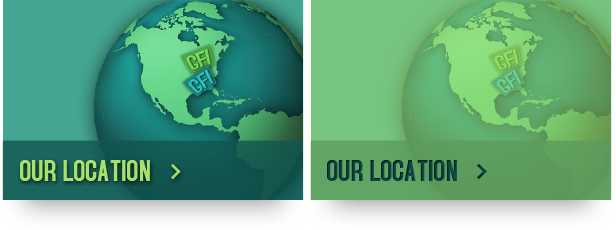
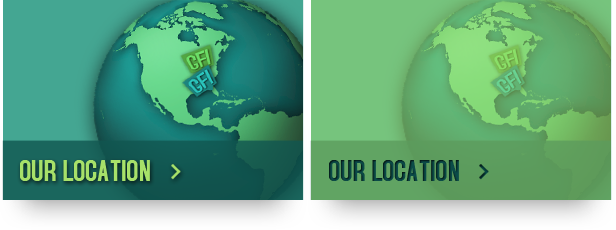
about and such

Changed region(s): [[0.5244, 0.7, 0.8019, 0.7913]]

diff --git a/app/assets/stylesheets/about.sass b/app/assets/stylesheets/about.sass
@@ -22,3 +22,13 @@
             
             &:hover
                 background-position: image-width($path)/2
+                
+        #locationAbout
+            $path: 'gfi/about/location.png'
+
+            height: image-height($path)
+            width: image-width($path)/2
+            background: image-url($path)
+
+            &:hover
+                background-position: image-width($path)/2
